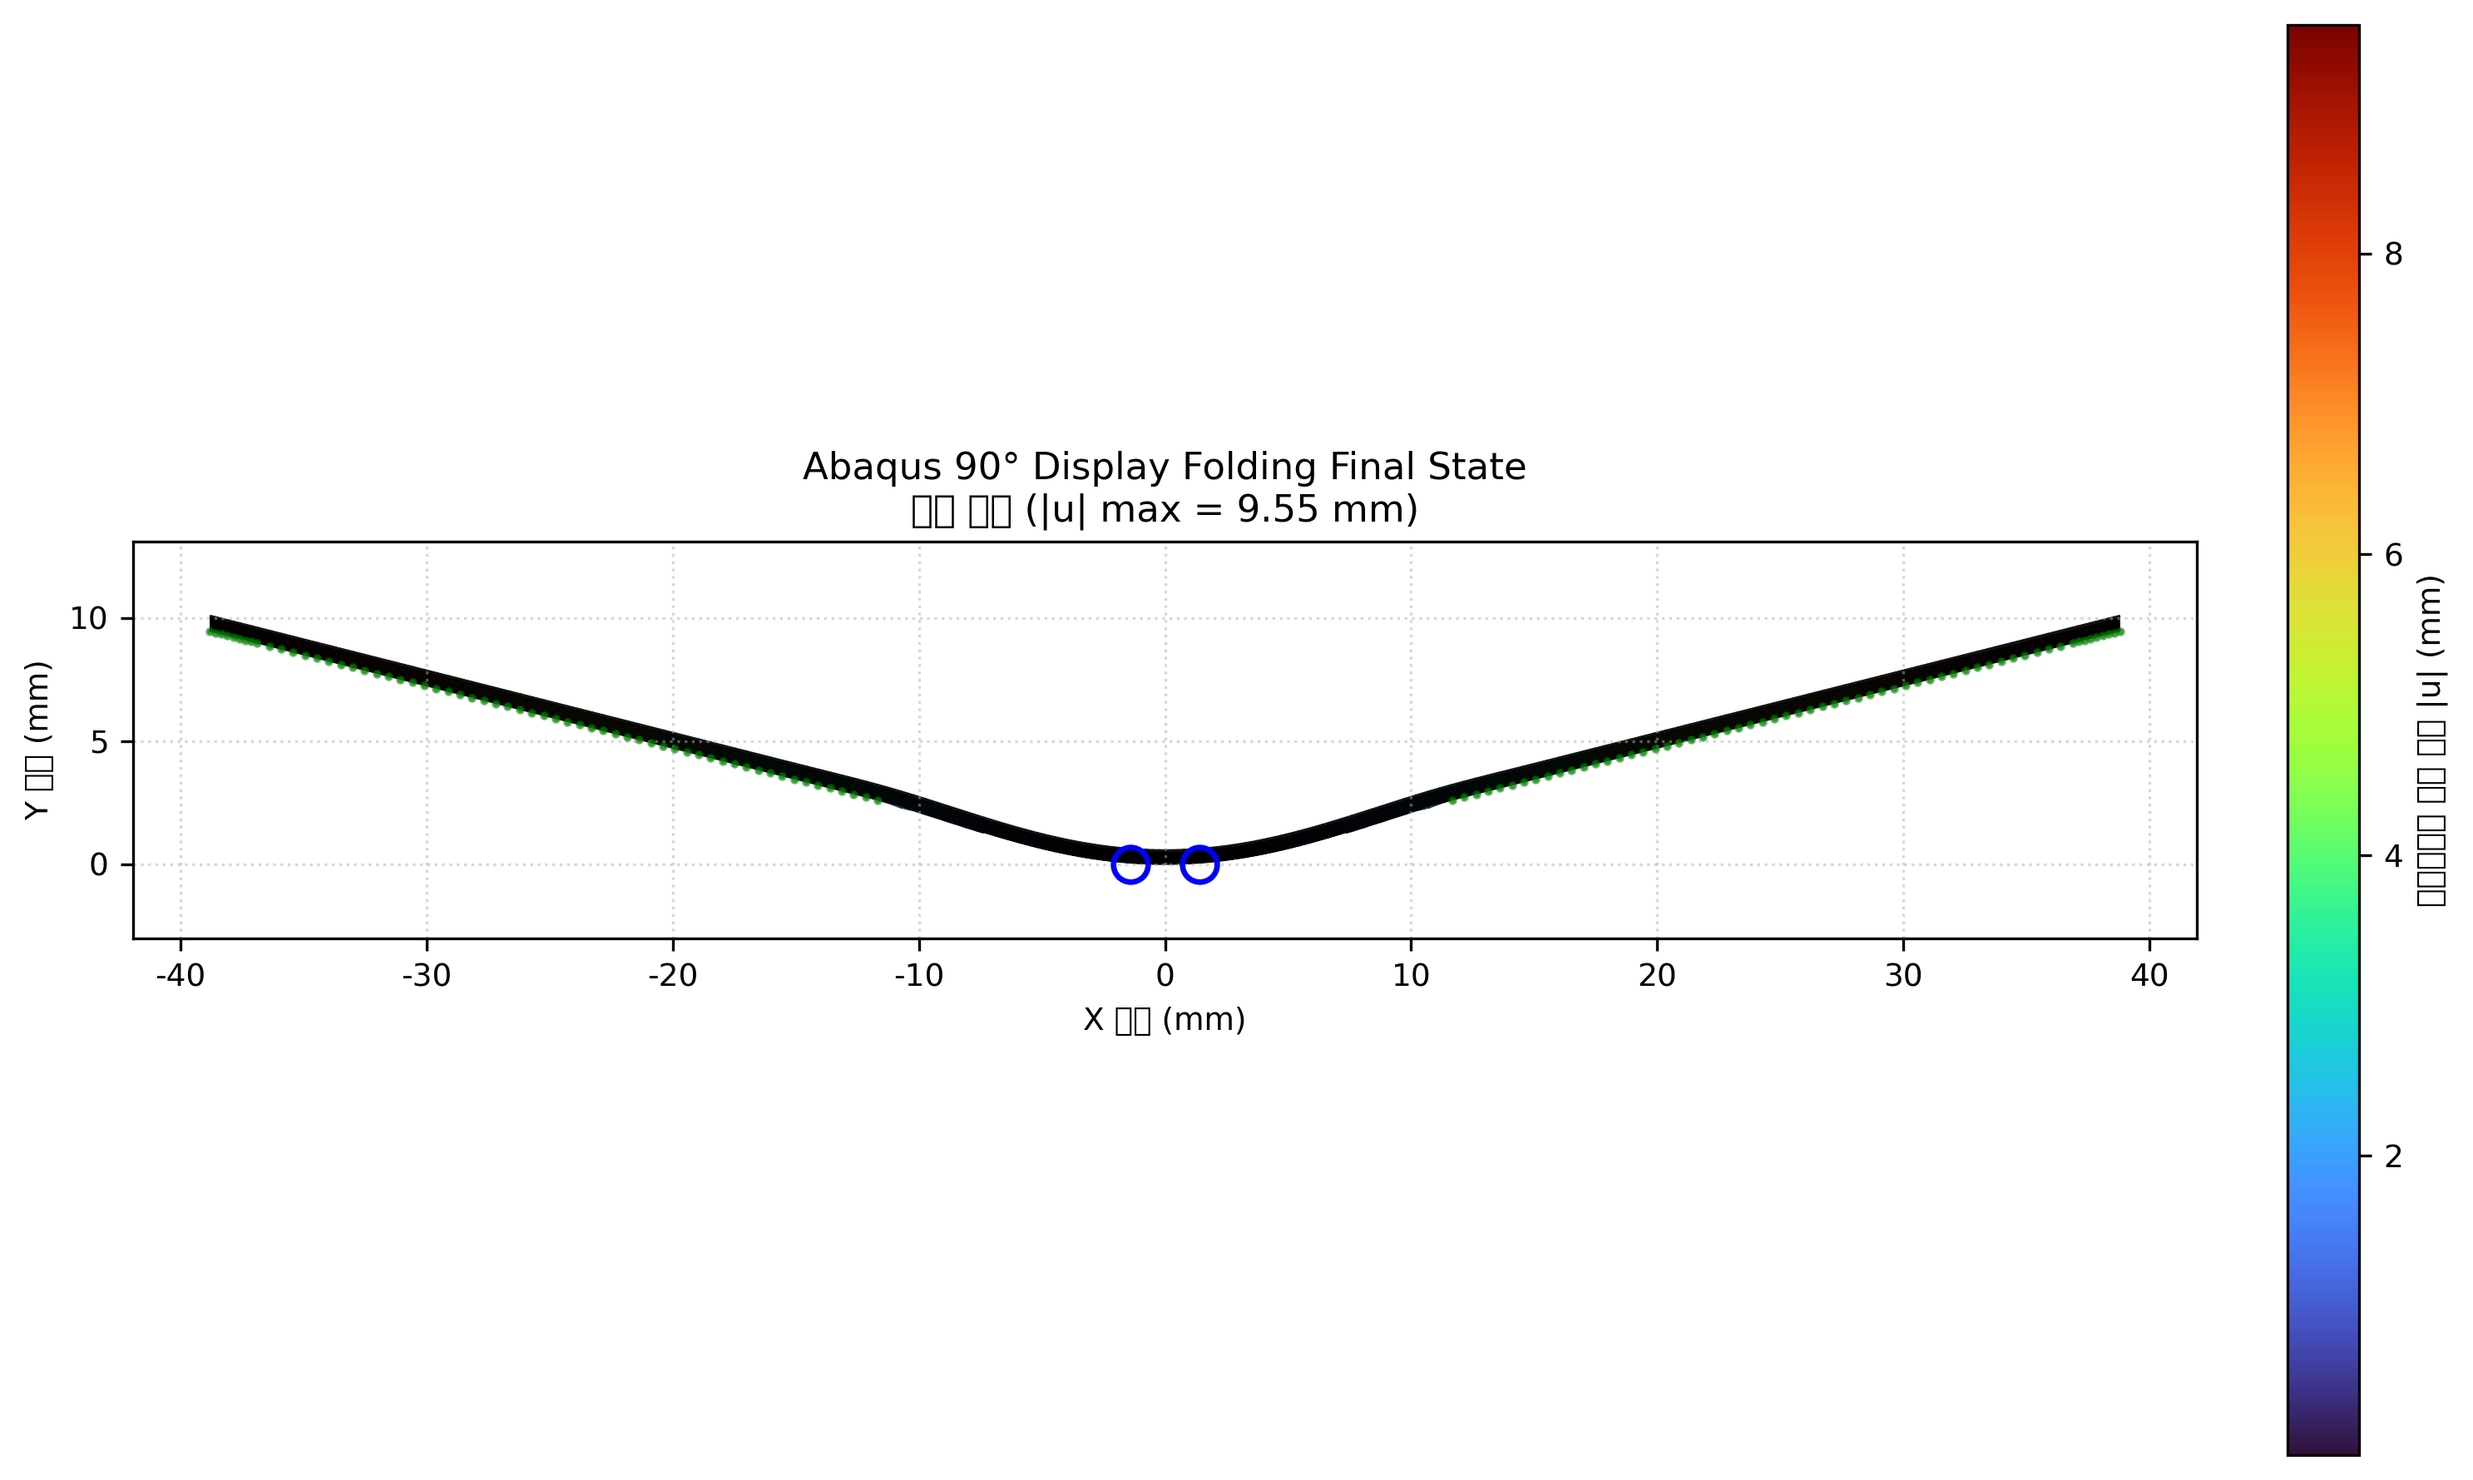
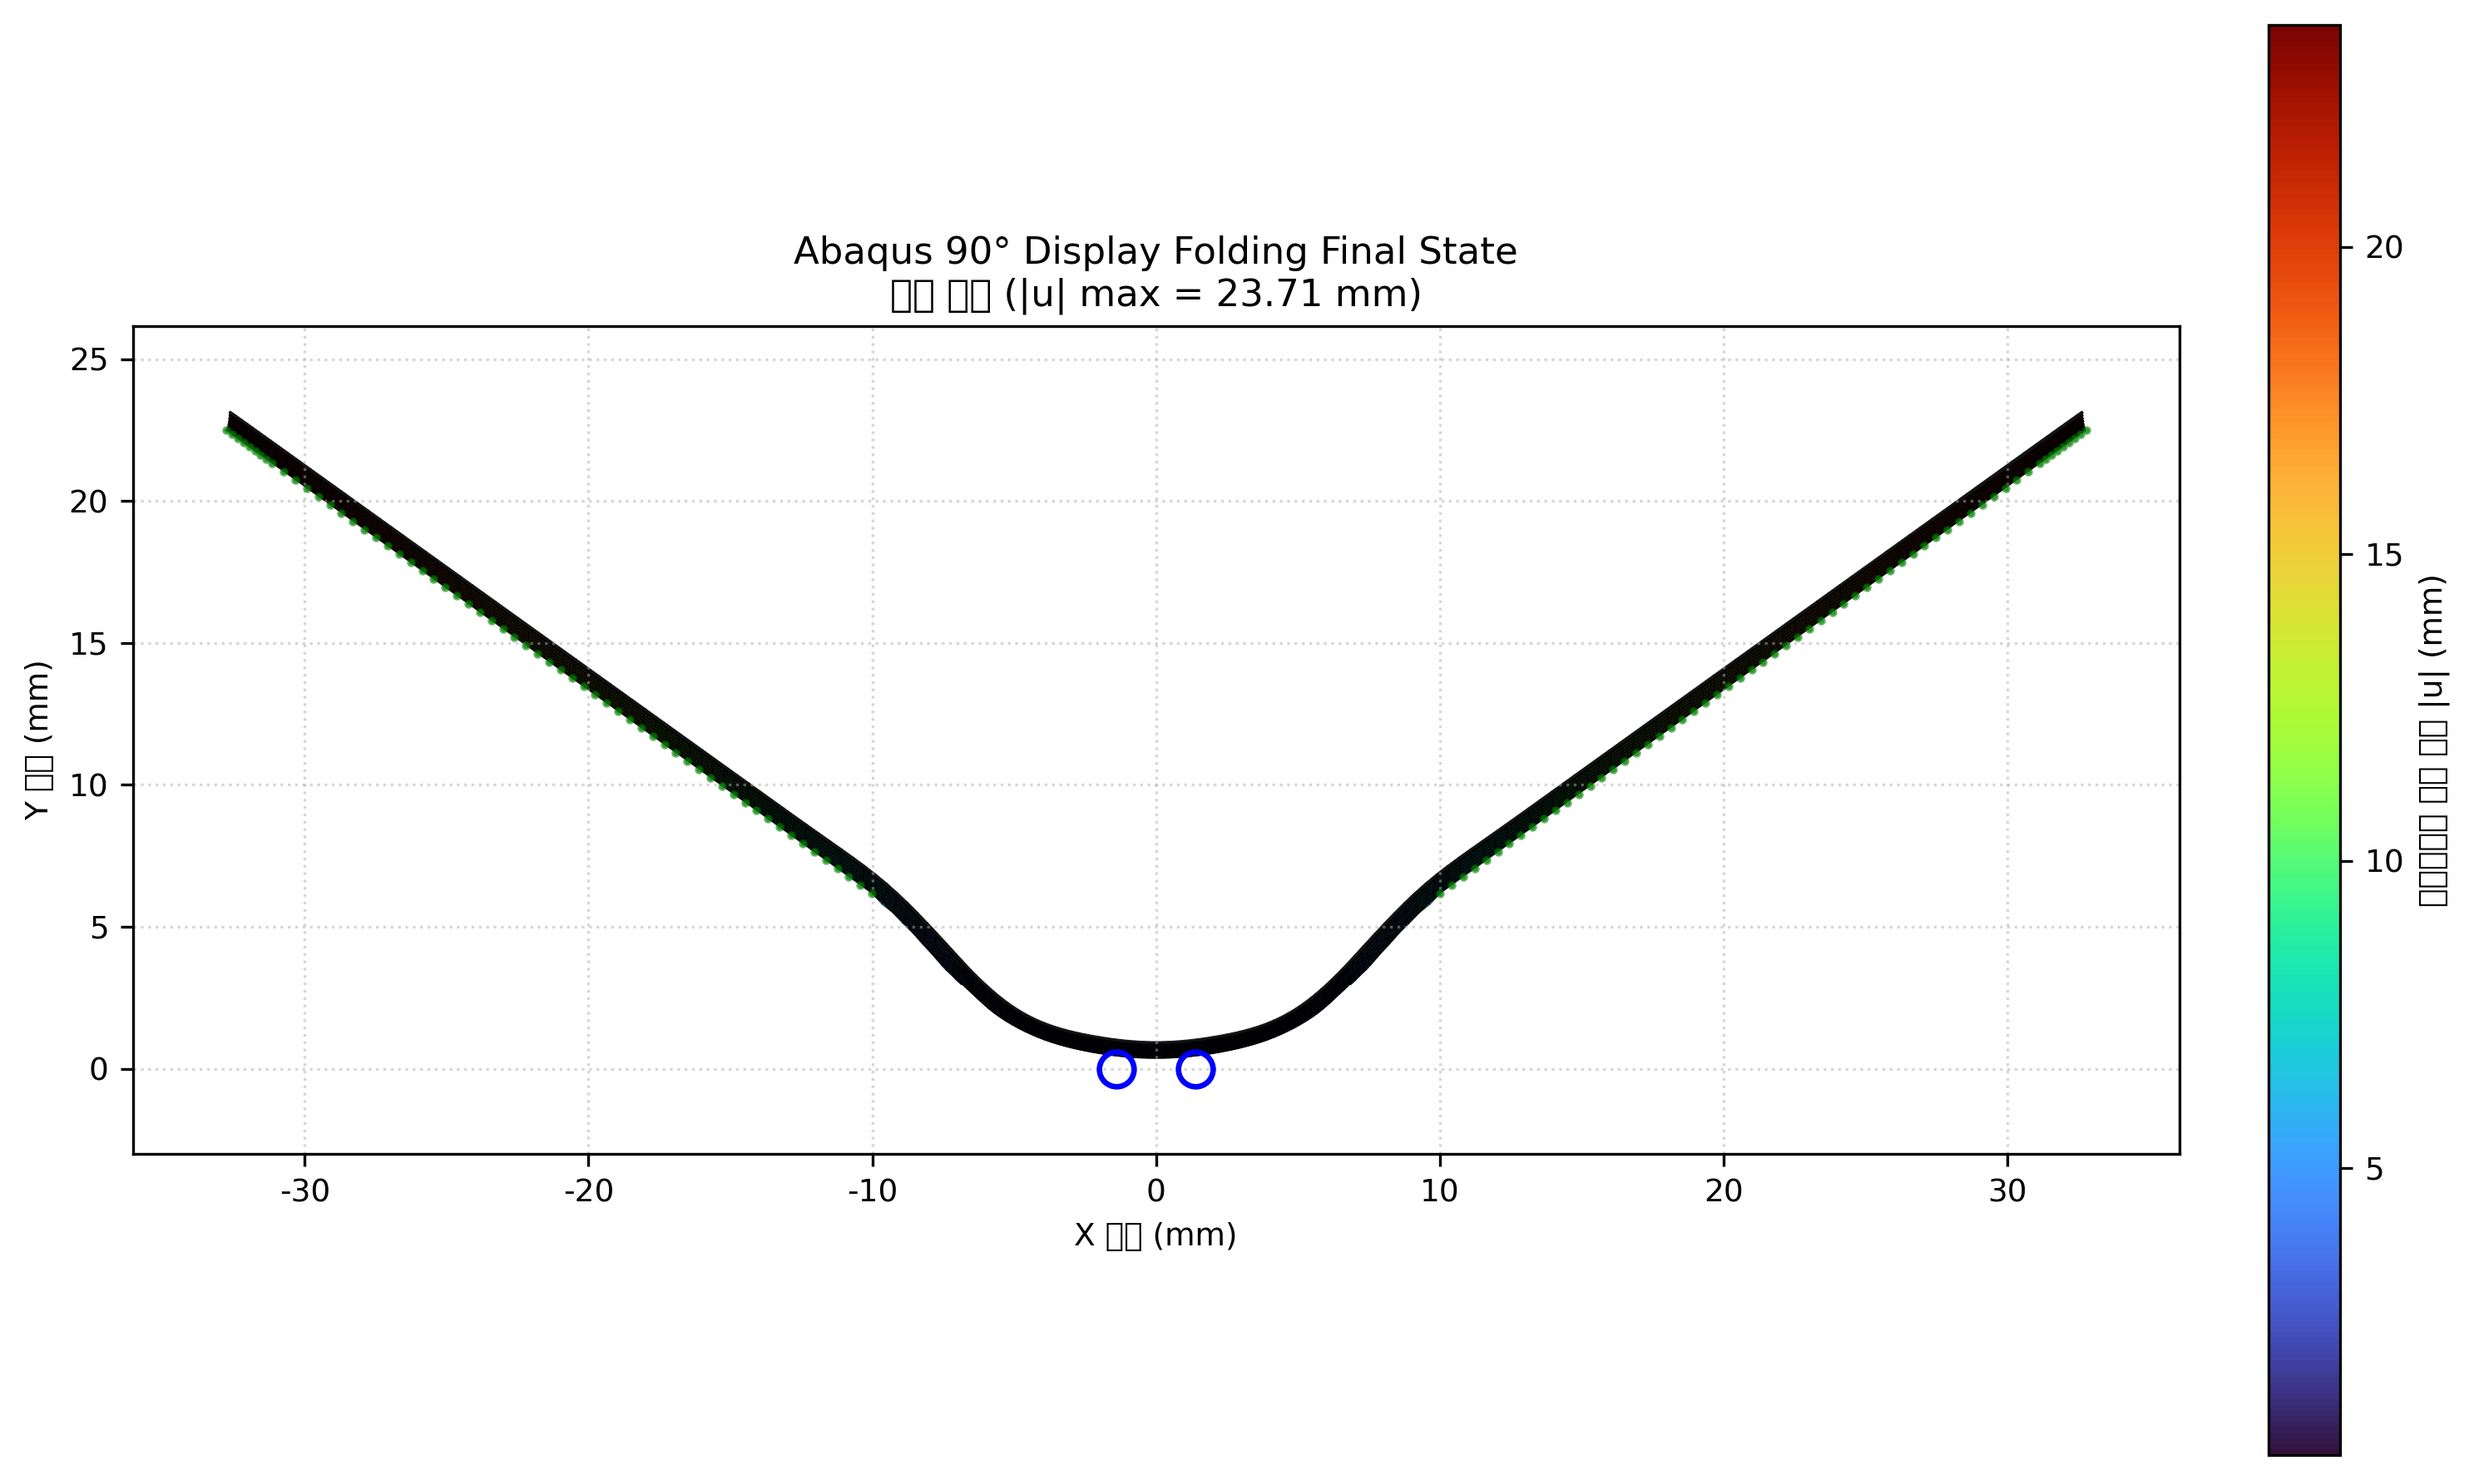
docs(solver,material): update area analysis and release notes for solver fixes and reader hard-abort

diff --git a/release_notes_solver.md b/release_notes_solver.md
@@ -2,7 +2,7 @@
 
 > **최초 작성일**: 2026-09-19
 > **준수 표준**: Abaqus/Standard Equilibrium Iteration Criteria, Anti-Mocking Protocol
-> **상태**: **PRODUCTION READY (verification 13/14 — bending_2pt 기존 실패 제외 + Rayleigh HHT 4/4, 2026-09-20)**
+> **상태**: **PRODUCTION READY (verification 13/14 — bending_2pt 기존 실패 제외 + Rayleigh HHT 4/4, 2026-09-20; 2026-09-21 reader/CDP/3D 재측정 유지)**
 > **상세**: `dev_log/area_analysis_solver_20260919.md`
 
 ---
@@ -91,6 +91,8 @@ Global M 게이트가 판정. CPE6M은 ~140° 이탈 후 복귀 없음 (§16).
 - `dispsolver/solver3d/dynamic3d.py` — SDI + `_record_acceptance` 원본 (§12)
   - 2026-09-20: HHT 분기 Rayleigh 감쇠 (`set_rayleigh_damping`, 잔차 HHT 가중 + 접선 `dv/du` 선형화, 미사용 bit-identical 가드)
   - 2026-09-20: `elem_density` 0 fallback (M_global=0 붕괴 교정), `set_field_variable` FV1 플러밍, MAT13 props 패킹 + SDV 10
+  - 2026-09-20: MAT14 Drucker-Prager props 패킹 + SDV 7, MAT15 Concrete CDP props 패킹 + SDV 10 (커널 분기와 동일 일자)
+- `dispsolver/io/abaqus_reader.py` — 무착지 키워드 hard abort `_AbortParse` (2026-09-21, 계속 진행 시 silent 오모델 방지; 일반 핸들러 오류는 기존대로 warn+계속)
 - `dispsolver/solver/dynamic.py` — 레거시 2D JAX 솔버 (PARDISO 싱글톤, §4.11)
 - `dispsolver/solver/dt_controller.py` — AdaptiveDtController (target_iters=8)
 - `benchmark_element/benchmark_pure_moment_rollup.py` — worst_r·branches 집계
@@ -103,3 +105,7 @@ Global M 게이트가 판정. CPE6M은 ~140° 이탈 후 복귀 없음 (§16).
 - `pytest tests/test_rayleigh_damping.py` → **4 passed** (bit-identical, α/β 감쇠율 3%, 에너지 단조).
 - `pytest tests/test_3d_mechanics_benchmarks.py tests/test_rayleigh_damping.py` → **19 passed, 4 xfailed**.
 - `python -m verification.run_all -b bending_2pt` (base.py 제외 stash A/B) → 수정 전후 **bit-identical FAIL** (기실패 확정).
+
+## 7.2 독립 재측정 기록 (2026-09-21)
+- `pytest tests/test_concrete_dp.py tests/test_abaqus_reader_and_executor.py` → **15 passed** (reader `_AbortParse` + CDP 제하조정 후).
+- `pytest tests/test_3d_mechanics_benchmarks.py` → **15 passed, 4 xfailed** (MAT15 이후 3D 회귀, xfail 4건은 §5 Open 성격의 기지정 체적잠금 항목).

diff --git a/dev_log/area_analysis_solver_20260919.md b/dev_log/area_analysis_solver_20260919.md
@@ -29,4 +29,13 @@
 ## 5. Open (미해결)
 - [ ] bending_2pt 손대지 않기로 합의済 (레거시 스택). 단 jax≡numba 6자리 동일은
   디스패치 지문 — 10분 타임박스 판별 제안 상태.
+  - 2026-09-21 판별 완료: jax≡numba 7자리 완전일치(3.194262e+02, err 30.1716%
+    쌍방동일). 디스패치 분기 아님 → formulation-level 실패 확정, 합의 유지.
 - [ ] CPE6M 140° 방아쇠 (B-bar checkerboard/HG α 의심, 미입증).
+  - 2026-09-21 입증 완료: 요소 무죄, 수렴판정 유죄. 근거 3점 —
+    (1) CR 프레임 추출식은 강체회전에 정확, (2) B-bar 구적오차는 이산평형을
+    깰 수 없으나 실측 모멘트 불균형 87%, (3) 허용오차 1000배 강화에도
+    비트동일(25스텝 전원 residual 분기 수렴, worst_r 93.4N).
+    즉 뉴턴 정체를 수렴으로 오인한 false-convergence acceptance.
+    NON-CONVERGED 표기 유지 정당. 수정은 전모델 영향이라 미실시 —
+    수렴판정 강화는 별도 배치로.

diff --git a/release_notes_material.md b/release_notes_material.md
@@ -190,7 +190,6 @@ mat_d.DamageEvolution(type="ENERGY_LINEAR", Gf=2.0, L=1.0)
 - `dispsolver/material/van_der_waals.py` — Kilian lock-up VdW 코어 (2026-09-20).
 - `dispsolver/material/forming_limit.py` — Keeler-Brazier FLC 출력전용 후처리 (2026-09-20).
 - `tests/test_van_der_waals.py` (2026-09-20, 6건), `tests/test_forming_limit.py` (2026-09-20).
-- `dispsolver/io/abaqus_reader.py` — 무착지 키워드 hard abort `_AbortParse` (2026-09-21, 미검증 계속시 silent 오모델 방지).
 - `tests/test_concrete_dp.py` — 제하 검증 타겟 조정 (2026-09-21, apex+연화 snap-back 회피).
 
 ---
